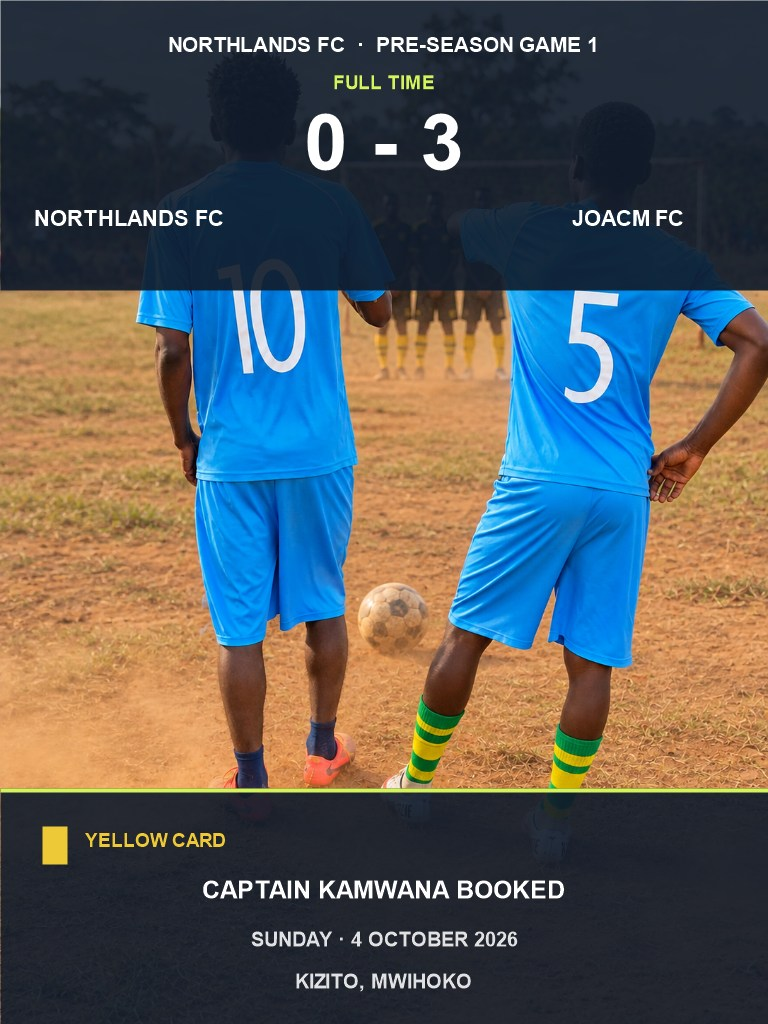
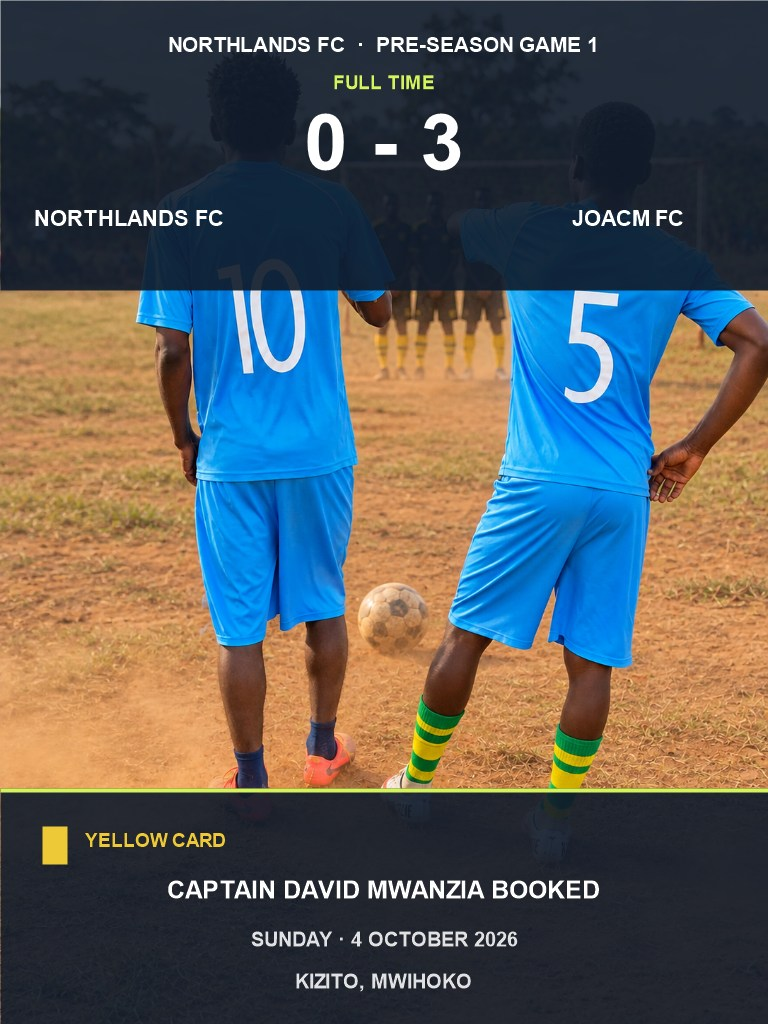
Update captain name to David Mwanzia

Changed region(s): [[0.2188, 0.8438, 0.7812, 0.875]]

diff --git a/index.html b/index.html
@@ -87,8 +87,8 @@
         <div class="leadership-grid">
           <article class="leader-card leader-featured">
             <div class="leader-top"><span class="leader-number">01 / CAPTAIN</span><span class="leader-mark" aria-hidden="true">✳</span></div>
-            <div class="leader-monogram" aria-hidden="true">K</div>
-            <div class="leader-info"><span class="leader-role">CAPTAIN</span><h3>KAMWANA</h3></div>
+            <div class="leader-monogram" aria-hidden="true">D</div>
+            <div class="leader-info"><span class="leader-role">CAPTAIN</span><h3>DAVID MWANZIA</h3></div>
           </article>
           <article class="leader-card">
             <div class="leader-top"><span class="leader-number">02 / VICE CAPTAIN</span><span class="leader-mark" aria-hidden="true">✳</span></div>
@@ -146,11 +146,11 @@
                 <span class="result-score" aria-label="Northlands FC 0, JOACM FC 3">0–3</span>
                 <span>JOACM FC</span>
               </div>
-              <p class="result-event"><span class="result-event-label">YELLOW CARD</span> Captain Kamwana was booked.</p>
+              <p class="result-event"><span class="result-event-label">YELLOW CARD</span> Captain David Mwanzia was booked.</p>
               <div class="result-venue"><span>VENUE</span><strong>Kizito, Mwihoko</strong></div>
             </div>
             <a class="result-poster-link" href="assets/preseason-game-1-result.jpg" target="_blank" rel="noreferrer" aria-label="View the Northlands FC vs JOACM FC match photo with the final result">
-              <img class="result-poster" src="assets/preseason-game-1-result.jpg" alt="Northlands FC lost 0 to 3 against JOACM FC on 4 October 2026 at Kizito, Mwihoko. Captain Kamwana received a yellow card.">
+              <img class="result-poster" src="assets/preseason-game-1-result.jpg" alt="Northlands FC lost 0 to 3 against JOACM FC on 4 October 2026 at Kizito, Mwihoko. Captain David Mwanzia received a yellow card.">
             </a>
           </article>
         </div>

diff --git a/pre-season.html b/pre-season.html
@@ -73,7 +73,7 @@
                 <span class="result-score" aria-label="Northlands FC 0, JOACM FC 3">0–3</span>
                 <span>JOACM FC</span>
               </div>
-              <p class="result-event"><span class="result-event-label">YELLOW CARD</span> Captain Kamwana was booked.</p>
+              <p class="result-event"><span class="result-event-label">YELLOW CARD</span> Captain David Mwanzia was booked.</p>
               <div class="result-venue"><span>VENUE</span><strong>Kizito, Mwihoko</strong></div>
             </div>
           </article>
@@ -91,7 +91,7 @@
         <div class="preseason-gallery">
           <figure>
             <a href="assets/preseason-game-1-result.jpg" target="_blank" rel="noreferrer" aria-label="Open the Northlands FC vs JOACM FC match photo with the final result">
-              <img src="assets/preseason-game-1-result.jpg" alt="Northlands FC lost 0 to 3 against JOACM FC on 4 October 2026 at Kizito, Mwihoko. Captain Kamwana received a yellow card.">
+              <img src="assets/preseason-game-1-result.jpg" alt="Northlands FC lost 0 to 3 against JOACM FC on 4 October 2026 at Kizito, Mwihoko. Captain David Mwanzia received a yellow card.">
             </a>
             <figcaption>GAME 1 · NORTHLANDS FC 0–3 JOACM FC · KIZITO, MWIHOKO</figcaption>
           </figure>
